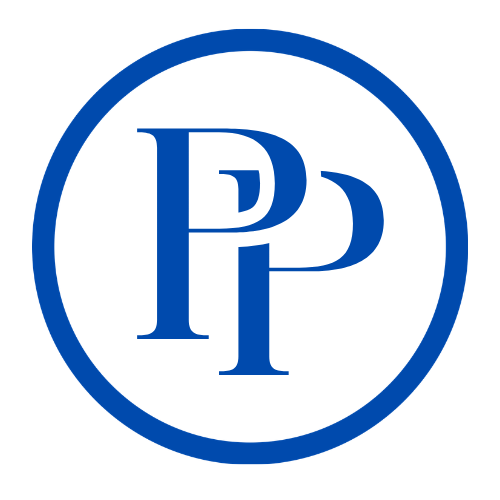
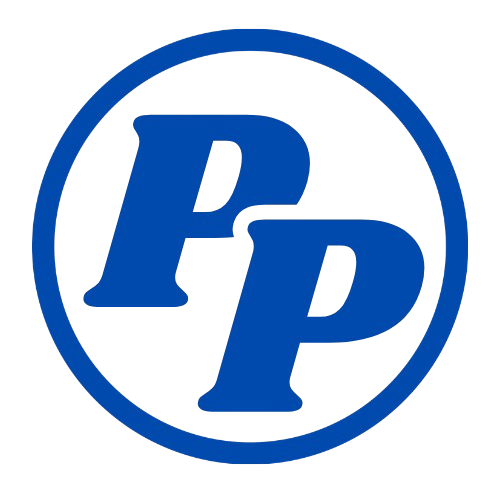
Updated BrandLogo component to support color variants and modified LoadingScreen to include a pulsing animation effect.

Changed region(s): [[0.15, 0.21, 0.87, 0.84]]

diff --git a/src/components/ui/LoadingScreen.tsx b/src/components/ui/LoadingScreen.tsx
@@ -1,5 +1,5 @@
-import React from 'react'
-import { ActivityIndicator, StyleSheet, Text, View } from 'react-native'
+import React, { useEffect, useRef } from 'react'
+import { Animated, Easing, StyleSheet, Text, View } from 'react-native'
 import { StatusBar } from 'expo-status-bar'
 
 import { BrandLogo } from '../layout/BrandLogo'
@@ -9,12 +9,34 @@ interface LoadingScreenProps {
 }
 
 export function LoadingScreen({ message = 'Loading...' }: LoadingScreenProps) {
+  const pulse = useRef(new Animated.Value(1)).current
+
+  useEffect(() => {
+    Animated.loop(
+      Animated.sequence([
+        Animated.timing(pulse, {
+          toValue: 1.15,
+          duration: 800,
+          easing: Easing.inOut(Easing.ease),
+          useNativeDriver: true,
+        }),
+        Animated.timing(pulse, {
+          toValue: 1,
+          duration: 800,
+          easing: Easing.inOut(Easing.ease),
+          useNativeDriver: true,
+        }),
+      ])
+    ).start()
+  }, [pulse])
+
   return (
     <View style={styles.container}>
       <StatusBar style="light" />
-      <BrandLogo variant="full" width={100} height={100} style={styles.logo} />
-      <ActivityIndicator size="large" color="#FFFFFF" />
-      <Text style={styles.message}>{message}</Text>
+      <Animated.View style={{ transform: [{ scale: pulse }] }}>
+        <BrandLogo variant="full" color="white" width={120} height={120} />
+      </Animated.View>
+      {message ? <Text style={styles.message}>{message}</Text> : null}
     </View>
   )
 }
@@ -26,12 +48,9 @@ const styles = StyleSheet.create({
     justifyContent: 'center',
     backgroundColor: '#0047AB',
   },
-  logo: {
-    marginBottom: 28,
-  },
   message: {
     fontSize: 14,
     color: 'rgba(255, 255, 255, 0.9)',
-    marginTop: 16,
+    marginTop: 32,
   },
 })

diff --git a/src/components/layout/BrandLogo.tsx b/src/components/layout/BrandLogo.tsx
@@ -2,19 +2,27 @@ import React from 'react'
 import { Image, type ImageStyle, type StyleProp } from 'react-native'
 
 const brandLogo = require('../../../assets/brand-logo.png')
+const brandLogoWhite = require('../../../assets/brand-logo-white.png')
 const logoMark = require('../../../assets/logo-mark.png')
+const logoMarkWhite = require('../../../assets/brand-logo-white.png')
 
 type Variant = 'full' | 'mark'
+type Color = 'blue' | 'white'
 
 interface BrandLogoProps {
   variant?: Variant
+  color?: Color
   width: number
   height?: number
   style?: StyleProp<ImageStyle>
 }
 
-export function BrandLogo({ variant = 'full', width, height, style }: BrandLogoProps) {
-  const source = variant === 'full' ? brandLogo : logoMark
+export function BrandLogo({ variant = 'full', color = 'blue', width, height, style }: BrandLogoProps) {
+  const isWhite = color === 'white'
+  const source =
+    variant === 'full'
+      ? isWhite ? brandLogoWhite : brandLogo
+      : isWhite ? logoMarkWhite : logoMark
   const aspectHeight = height ?? width
 
   return (

diff --git a/app/(app)/_layout.tsx b/app/(app)/_layout.tsx
@@ -63,7 +63,7 @@ const tabBadgeStyles = StyleSheet.create({
 // ─── Stable header title for Dashboard ───────────────────────────────────────
 const DashboardHeaderTitle = () => (
   <View style={headerTitleStyles.row}>
-    <BrandLogo variant="full" width={32} height={32} />
+    <BrandLogo variant="full" color="white" width={32} height={32} />
     <Text style={headerTitleStyles.text}>Dashboard</Text>
   </View>
 )
